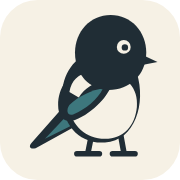
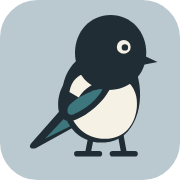
Use a softer blue-gray background for the magpie mark

diff --git a/frontend/src/routes/+layout.svelte b/frontend/src/routes/+layout.svelte
@@ -42,7 +42,7 @@
          source order. -->
     <nav class="mx-auto flex max-w-6xl flex-wrap items-center gap-x-6 gap-y-2 px-4 py-3 sm:px-6">
       <a href="/" class="flex items-center gap-2 text-lg font-semibold text-foreground no-underline hover:no-underline">
-        <img src="/magpie.svg" alt="" width="36" height="36" class="rounded-lg bg-[#f6f1e5]" />
+        <img src="/magpie.svg" alt="" width="36" height="36" class="rounded-lg bg-[#bac8d0]" />
         birdtest
       </a>
       <div

diff --git a/frontend/src/routes/+page.svelte b/frontend/src/routes/+page.svelte
@@ -53,7 +53,7 @@
 
 <section class="space-y-8">
   <div class="space-y-3">
-    <img src="/magpie.svg" alt="Birdtest magpie" width="96" height="96" class="rounded-2xl bg-[#f6f1e5]" />
+    <img src="/magpie.svg" alt="Birdtest magpie" width="96" height="96" class="rounded-2xl bg-[#bac8d0]" />
     <h1 class="text-3xl font-semibold">Crowdsourced Crossword Game Research</h1>
     <div class="max-w-2xl space-y-2 text-muted-foreground" data-testid="intro">
       <p>
